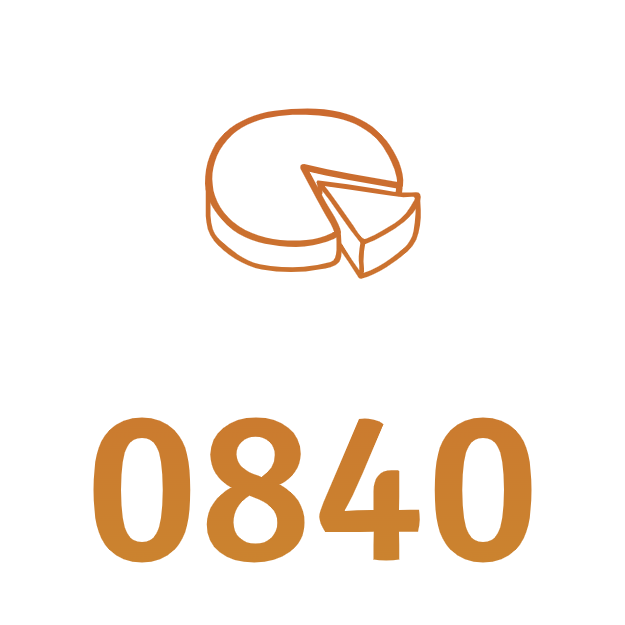
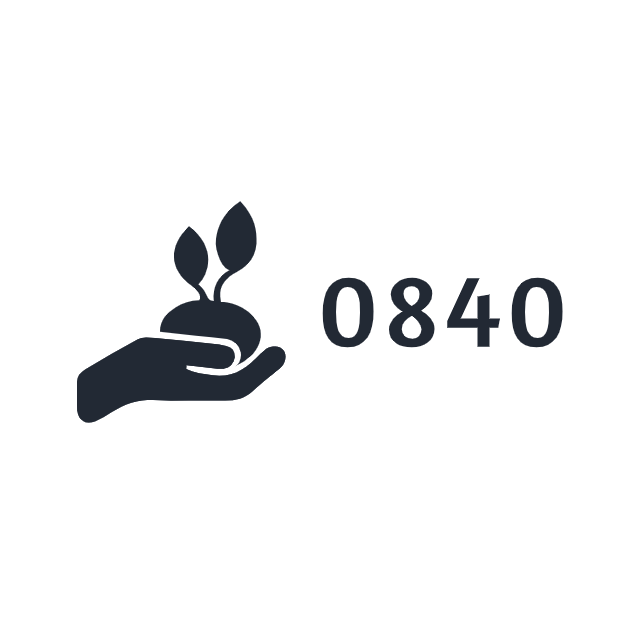
41th commit: 메인페이지 급여정책 내용 추가

Changed region(s): [[0.1216, 0.152, 0.912, 0.912]]

diff --git a/WebApp0840/src/main/resources/templates/home/main.html b/WebApp0840/src/main/resources/templates/home/main.html
@@ -39,7 +39,7 @@
 
     #profile-section {
         position: fixed;
-        top: 90px;
+        top: 140px;
         right: 50px;
         z-index: 2;
         width: 300px;
@@ -184,7 +184,7 @@
     </style>
 </head>
 <th:block layout:fragment="content">
-    <body class="wrapper" style="height: 3000px; position: relative">
+    <body class="wrapper" style="position: relative">
     <div class="popup hidden bg-[#000000AA] w-full h-full z-10 flex justify-center">
         <div class="popup__content bg-white rounded mt-[100px] w-[450px] h-[500px]">
             <div class="popup__head flex justify-end">
@@ -392,39 +392,43 @@
     <div class="w-full h-[12px] text-2xl">
         <div class="bg-concrete h-full shadow-inner"></div>
     </div>
-    <section class="sub-section-3 flex flex-col justify-center pl-40 pt-4">
+    <section class="sub-section-3 flex flex-col justify-center pl-40 pt-4 pb-5">
         <div class="py-3 font-bold text-2xl">자주 물어보는 근로 정책</div>
         <div class="flex gap-3">
             <div class="card w-[300px]">
                 <img src="/images/unemployment.png" class="card-img-top" alt="card-img-top">
                 <div class="card-body">
-                    <h5 class="card-title">실업급여란?</h5>
-                    <p class="card-text">직장을 잃게된 경우, 피보험자의 구직활동 및 재교육을 지원하는 사회보험을 말한다</p>
-                    <p class="card-text"><small class="text-muted">Last updated 3 mins ago</small></p>
+                    <a href="/megazine/unemployment" class="no-underline text-black hover:text-black">
+                        <h5 class="card-title">실업급여란?</h5>
+                        <p class="card-text">직장을 잃게된 경우, 피보험자의 구직활동 및 재교육을 지원하는 사회보험을 말한다</p>
+                    </a>
                 </div>
             </div>
             <div class="card w-[300px]">
                 <img src="/images/annual-holiday.png" class="card-img-top" alt="card-img-top">
                 <div class="card-body">
-                    <h5 class="card-title">연차란?</h5>
-                    <p class="card-text">직장을 잃게된 경우, 피보험자의 구직활동 및 재교육을 지원하는 사회보험을 말한다</p>
-                    <p class="card-text"><small class="text-muted">Last updated 3 mins ago</small></p>
+                    <a href="/megazine/annual" class="no-underline text-black hover:text-black">
+                        <h5 class="card-title">연차란?</h5>
+                        <p class="card-text">1년동안 80% 이상 출근한 근로자에게 15일의 유급휴가를 주는 것을 말한다</p>
+                    </a>
                 </div>
             </div>
             <div class="card w-[300px]">
-                <img src="/images/annual-holiday.png" class="card-img-top" alt="card-img-top">
+                <img src="/images/year-end-tax.jpg" class="card-img-top" alt="card-img-top">
                 <div class="card-body">
-                    <h5 class="card-title">연차란?</h5>
-                    <p class="card-text">직장을 잃게된 경우, 피보험자의 구직활동 및 재교육을 지원하는 사회보험을 말한다</p>
-                    <p class="card-text"><small class="text-muted">Last updated 3 mins ago</small></p>
+                    <a href="/megazine/year-end-tax" class="no-underline text-black hover:text-black">
+                        <h5 class="card-title">연말정산이란?</h5>
+                        <p class="card-text">직장인이 매달 월급에서 떼인(원천징수) 세금을 정산하는 일이다. </p>
+                    </a>
                 </div>
             </div>
             <div class="card w-[300px]">
-                <img src="/images/annual-holiday.png" class="card-img-top" alt="card-img-top">
+                <img src="/images/weekly-allowance.jpg" class="card-img-top" alt="card-img-top">
                 <div class="card-body">
-                    <h5 class="card-title">연차란?</h5>
-                    <p class="card-text">직장을 잃게된 경우, 피보험자의 구직활동 및 재교육을 지원하는 사회보험을 말한다</p>
-                    <p class="card-text"><small class="text-muted">Last updated 3 mins ago</small></p>
+                    <a href="/megazine/weekly-allowance" class="no-underline text-black hover:text-black">
+                        <h5 class="card-title">주휴수당이란?</h5>
+                        <p class="card-text">사업장 규모에 관계없이, 주 15시간 이상으로 근무하는 근로자에게 제공하는 임금이다.</p>
+                    </a>
                 </div>
             </div>
         </div>

diff --git a/WebApp0840/src/main/resources/templates/home/annual.html b/WebApp0840/src/main/resources/templates/home/annual.html
@@ -1,0 +1,44 @@
+<html
+        xmlns:th="http://thymeleaf.org"
+        xmlns:layout="http://www.ultraq.net.nz/thymeleaf/layout"
+        layout:decorate="~{layout}"
+>
+<th:block layout:fragment="content">
+    <div class="container p-5 mt-3">
+        <div>
+            <div class="text-base text-gray-500">근로기준법 제 60조</div>
+            <div class="text-xl">연차란?</div>
+            <div class="flex gap-2 mt-3">
+                <div class="border border-gray-50 rounded-full"><img src="/images/0840-svg.svg" class="w-[90px]"></div>
+                <div class="flex items-start text-sm text-gray-500 pt-3"><0840> 알기쉬운 근로매거진 <i class="fa-solid fa-head-side-cough" style="margin-left: 5px;"></i></div>
+            </div>
+        </div>
+        <img src="/images/annual-holiday.png" class="w-[550px] h-[280px] object-fit contrast-70 mt-3">
+        <div class="mt-3">
+            <div>1년동안 80% 이상 출근한 근로자에게 15일의 유급휴가를 주는 것을 말한다</div>
+            <div class="bg-concrete rounded p-3 mt-3">
+                <div class="border-b-2 border-gray-500">[근로기준법 제 60조]에 따르면,</div>
+                <div>
+                    5명 이상의 사업장에서는 1년간 80% 이상 출근한 근로자에 한해서 15일의 유급휴가를 주어야함<br>
+                    1년 미만의 근로자의 경우 1개월 개근시 1일의 유급휴가를 지급받음
+                </div>
+            </div>
+        </div>
+        <div class="mt-5">
+            <div class="w-full bg-gray-50 rounded p-1"><i class="fa-solid fa-triangle-exclamation"></i> 유의사항</div>
+            <div class="mt-2">1년동안 사용하지 않으면 자동소멸<br>사용하지 못한 연차(유급휴가)를 연차 수당으로 대신 보상받을 수 있다</div>
+        </div>
+        <div class="mt-5">
+            <div class="w-full bg-gray-50 rounded p-1"><i class="fa-solid fa-sack-dollar"></i> 연차수당</div>
+            <div class="mt-2">
+                연차 휴가 수당: 연차 휴가 사용일에 유급으로 지급해야하는 임금<br>
+                연차 휴가 미사용 수당: 연차 휴가를 사용하지 않고 연차 사용기간이 만료되었을 때, 미사용 연차에 대해 보상하는 임금<br>
+                ('휴가 청구권이 있는 마지막 달의 임금 지급일 임금을 기준으로 산정한다')<br><br>
+                <span class="ml-5 text-red-500">1일 통상임금 = 1시간 통상시급 x 1일 근로시간</span><br>
+                <span class="ml-5">만약, 미사용연차일 수가 10일이라면 1일 통상임금 x 10일</span>
+            </div>
+        </div>
+    </div>
+</th:block>
+
+</html>

diff --git a/WebApp0840/src/main/resources/templates/home/year_end.html b/WebApp0840/src/main/resources/templates/home/year_end.html
@@ -1,0 +1,46 @@
+<html
+        xmlns:th="http://thymeleaf.org"
+        xmlns:layout="http://www.ultraq.net.nz/thymeleaf/layout"
+        layout:decorate="~{layout}"
+>
+<th:block layout:fragment="content">
+    <div class="container p-5 mt-3">
+        <div>
+            <div class="text-base text-gray-500">근로기준법 제 60조</div>
+            <div class="text-xl">연말정산이란?</div>
+            <div class="flex gap-2 mt-3">
+                <div class="border border-gray-50 rounded-full"><img src="/images/0840-svg.svg" class="w-[90px]"></div>
+                <div class="flex items-start text-sm text-gray-500 pt-3"><0840> 알기쉬운 근로매거진 <i class="fa-solid fa-head-side-cough" style="margin-left: 5px;"></i></div>
+            </div>
+        </div>
+        <img src="/images/year-end-tax.jpg" class="w-[550px] h-[280px] object-fit contrast-70 mt-3">
+        <div class="mt-3">
+            <div>
+                직장인이 매달 월급에서 떼인 세금을 정산하는 일이다<br>
+                1년간 벌어들인 소득에서 소득세를 계산한 뒤, 그동안 떼인 세금과 비교해 더 떼였으면 환급받고,<br>
+                덜 떼였으면 더 내는 절차이다.
+            </div>
+            <div class="bg-concrete rounded p-3 mt-3">
+                <div class="border-b-2 border-gray-500">[근로기준법 제 60조]에 따르면,</div>
+                <div>
+                    5명 이상의 사업장에서는 1년간 80% 이상 출근한 근로자에 한해서 15일의 유급휴가를 주어야함<br>
+                    1년 미만의 근로자의 경우 1개월 개근시 1일의 유급휴가를 지급받음
+                </div>
+            </div>
+        </div>
+        <div class="mt-5">
+            <div class="w-full bg-gray-50 rounded p-1"><i class="fa-solid fa-triangle-exclamation"></i> 총급여란?</div>
+            <div class="mt-2">1년치 세금을 계산하는 기준인 연간소득을 '총급여'라고 한다 (연봉과는 다르다)</div>
+            <div><i class="fa-solid fa-arrow-right"></i> 연봉 - 비과세소득 = 총급여</div>
+        </div>
+        <div class="mt-5">
+            <div class="w-full bg-gray-50 rounded p-1"><i class="fa-solid fa-sack-dollar"></i> 비과세소득이란?</div>
+            <div class="mt-2">
+                근로소득 중에서 세금을 내지 않아도 되는 소득을 말한다.<br>
+                즉, '총급여'란 세금을 부과한 소득을 말한다.<br>
+            </div>
+        </div>
+    </div>
+</th:block>
+
+</html>

diff --git a/WebApp0840/src/main/resources/templates/home/unemployment.html b/WebApp0840/src/main/resources/templates/home/unemployment.html
@@ -1,0 +1,35 @@
+<html
+        xmlns:th="http://thymeleaf.org"
+        xmlns:layout="http://www.ultraq.net.nz/thymeleaf/layout"
+        layout:decorate="~{layout}"
+>
+<th:block layout:fragment="content">
+    <div class="container p-5 mt-3">
+        <div>
+            <div class="text-base text-gray-500">대한민국 4대 보험 中 1</div>
+            <div class="text-xl">고용보험 / 실업급여란 ?</div>
+            <div class="flex gap-2 mt-3">
+                <div class="border border-gray-50 rounded-full"><img src="/images/0840-svg.svg" class="w-[90px]"></div>
+                <div class="flex items-start text-sm text-gray-500 pt-3"><0840> 알기쉬운 근로매거진 <i class="fa-solid fa-head-side-cough" style="margin-left: 5px;"></i></div>
+            </div>
+        </div>
+        <img src="/images/unemployment.png" class="w-[650px] h-[280px] object-fit contrast-70 mt-3">
+        <div class="mt-3">
+             <div>직장을 잃게된 경우, 피보험자의 구직활동 및 재교육을 지원하는 보험을 말한다<br>
+             (<span class="font-bold">'비자발적인'**</span> 퇴사사유가 중요하다)<br>
+                 (재취업을 위한 노력을 하는 조건으로, 최소 120일(<span class="text-red-500">4개월</span>), 최장 270일(<span class="text-red-500">9개월</span>) 동안 지원)</div>
+        </div>
+        <div class="mt-5">
+            <div class="w-full bg-gray-50 rounded p-1"><i class="fa-solid fa-file-invoice"></i> 필요서류</div>
+            <div class="mt-2">(사측에서 제공하는) 이직확인서 필요<br><i class="fa-solid fa-arrow-right"></i> 근로자가 사업주에게 '이직확인서' 발급요청 시, 요청받은 날로부터 10일 이내에 사업주는 이직확인서 발급해야한다.</div>
+        </div>
+        <div class="mt-5">
+            <div class="w-full bg-gray-50 rounded p-1"><i class="fa-solid fa-question"></i> 신청방법</div>
+            <div class="mt-2">(1) 사측에서 상실신고와 이직확인서가 신고되어 있는지 확인<br>(2) 수급자격 인터넷교육을 받으면 시간절약<br>(3) 관할 고용복지센터를 가서 실업급여 신청<br>(4) 2주 뒤 교육출석
+                요구를 받고, 교육에 출석하면 수급자격증을 받게 된다.
+            </div>
+        </div>
+    </div>
+</th:block>
+
+</html>

diff --git a/WebApp0840/src/main/resources/templates/home/weekly_allowance.html b/WebApp0840/src/main/resources/templates/home/weekly_allowance.html
@@ -1,0 +1,33 @@
+<html
+        xmlns:th="http://thymeleaf.org"
+        xmlns:layout="http://www.ultraq.net.nz/thymeleaf/layout"
+        layout:decorate="~{layout}"
+>
+<th:block layout:fragment="content">
+    <div class="container p-5 mt-3">
+        <div>
+            <div class="text-base text-gray-500">근로기준법 제 60조</div>
+            <div class="text-xl">주휴수당이란?</div>
+            <div class="flex gap-2 mt-3">
+                <div class="border border-gray-50 rounded-full"><img src="/images/0840-svg.svg" class="w-[90px]"></div>
+                <div class="flex items-start text-sm text-gray-500 pt-3"><0840> 알기쉬운 근로매거진 <i class="fa-solid fa-head-side-cough" style="margin-left: 5px;"></i></div>
+            </div>
+        </div>
+        <img src="/images/weekly-allowance.jpg" class="w-[550px] h-[280px] object-fit contrast-70 mt-3">
+        <div class="mt-3">
+            <div>
+                사업장 규모에 관계없이, 주 15시간 이상으로 근무하는 근로자에게 제공하는 임금이다.<br>
+                주휴일에는 근로를 제공하지 않지만, 1일분의 임금을 지급받을 수 있다.<br>
+                주 15시간 미만 근로자는 주휴수당을 지급받을 수 없다.<br>
+            </div>
+            <div class="bg-concrete rounded p-3 mt-3">
+                <div class="border-b-2 border-gray-500">주휴수당 계산방법</div>
+                <div>
+                    '<span class="font-bold text-red-500">1시간 통상임금 x 1일 근무시간</span>' 에 해당하는 금액을 주 15시간이 넘을 때마다 기본급에 포함하여 지급해야한다.
+                </div>
+            </div>
+        </div>
+    </div>
+</th:block>
+
+</html>

diff --git a/WebApp0840/src/main/resources/templates/navbar.html b/WebApp0840/src/main/resources/templates/navbar.html
@@ -18,7 +18,7 @@
         </div>
         <nav class="navbar navbar-expand-xl navbar-fixed-top bg-white navbar-light p-0 flex-grow pt-2 object-fit shadow-md">
             <div class="container-fluid pl-8 h-[100%]">
-                <a class="navbar-brand" th:href="@{/}">Navbar</a>
+                <a class="navbar-brand py-0" th:href="@{/}"><img src="/images/0840-svg.svg" class="w-[100px] h-[80px]"></a>
                 <button class="navbar-toggler" type="button" data-bs-toggle="collapse"
                         data-bs-target="#navbarWithDropdown"
                         aria-controls="navbarWithDropdown" aria-expanded="false" aria-label="Toggle navigation">
@@ -32,9 +32,6 @@
                             </li>
                             <li class="nav-item">
                                 <a class="nav-link text-[14px]" href="/account/base/fixed-spending">가계부</a>
-                            </li>
-                            <li class="nav-item">
-                                <a class="nav-link text-[14px]" href="/account/base/fixed-spending">게시판</a>
                             </li>
                         </div>
                         <div class="w-[150px]">

diff --git a/WebApp0840/src/main/resources/templates/wage/working_time_form.html b/WebApp0840/src/main/resources/templates/wage/working_time_form.html
@@ -51,10 +51,10 @@
 </head>
 <th:block layout:fragment="content">
     <div class="h-full flex">
-        <div class="w-[20%] flex default-bgcolor-base">
+        <div class="w-[20%] flex default-bgcolor-base pt-12">
             <th:block th:replace="/user/userInfo :: userInfoFragment"></th:block>
         </div>
-        <div class="flex-grow flex flex-col content-wrapper">
+        <div class="flex-grow flex flex-col content-wrapper pt-9">
             <nav class="w-full h-[2%] default-bgcolor-base pt-2 text-white">
                 <ul class="flex gap-20">
                     <li><a href="/wage/base" class="no-underline text-white text-[13px] hover:text-white hover:cursor-pointer">기본급여정보</a></li>

diff --git a/WebApp0840/src/main/resources/templates/wage/wage_base_form.html b/WebApp0840/src/main/resources/templates/wage/wage_base_form.html
@@ -36,10 +36,10 @@
 </head>
 <th:block layout:fragment="content">
     <div class="h-full flex">
-        <div class="w-[20%] flex default-bgcolor-base">
+        <div class="w-[20%] pt-12 flex default-bgcolor-base">
             <th:block th:replace="/user/userInfo :: userInfoFragment"></th:block>
         </div>
-        <div class="flex-grow flex flex-col">
+        <div class="flex-grow flex flex-col pt-9">
             <nav class="w-full h-[2%] default-bgcolor-base pt-2 text-white">
                 <ul class="flex gap-20">
                     <li><a href="/wage/base" class="no-underline text-white text-[13px] hover:text-white hover:cursor-pointer">기본급여정보</a></li>

diff --git a/WebApp0840/src/main/resources/templates/wage/wage_result.html b/WebApp0840/src/main/resources/templates/wage/wage_result.html
@@ -22,10 +22,10 @@
 </head>
 <th:block layout:fragment="content">
     <div class="h-full flex">
-        <div class="w-[20%] flex default-bgcolor-base">
+        <div class="w-[20%] flex default-bgcolor-base pt-12">
             <th:block th:replace="/user/userInfo :: userInfoFragment"></th:block>
         </div>
-        <div class="flex-grow flex flex-col">
+        <div class="flex-grow flex flex-col pt-9">
             <nav class="w-full h-[2%] default-bgcolor-base pt-2 text-white">
                 <ul class="flex gap-20">
                     <li><a href="/wage/base" class="no-underline text-white text-[13px] hover:text-white hover:cursor-pointer">기본급여정보</a>

diff --git a/WebApp0840/src/main/resources/templates/accountBook/baseForm/account_fixed_income_form.html b/WebApp0840/src/main/resources/templates/accountBook/baseForm/account_fixed_income_form.html
@@ -30,10 +30,10 @@
 </head>
 <th:block layout:fragment="content">
     <div class="h-full flex">
-        <div class="w-[20%] flex default-bgcolor-base">
+        <div class="w-[20%] flex default-bgcolor-base pt-12">
             <th:block th:replace="/accountBook/fixedInfo :: fixedInfoFragment"></th:block>
         </div>
-        <div class="flex-grow flex flex-col">
+        <div class="flex-grow flex flex-col pt-9">
             <nav class="w-full h-[2%] default-bgcolor-base pt-2 text-white">
                 <ul class="flex gap-20">
                     <li><a href="/account/base/fixed-spending"

diff --git a/WebApp0840/src/main/resources/templates/accountBook/baseForm/account_fixed_spending_form.html b/WebApp0840/src/main/resources/templates/accountBook/baseForm/account_fixed_spending_form.html
@@ -30,10 +30,10 @@
 </head>
 <th:block layout:fragment="content">
     <div class="h-full flex">
-        <div class="w-[20%] flex default-bgcolor-base">
+        <div class="w-[20%] flex default-bgcolor-base pt-12">
             <th:block th:replace="/accountBook/fixedInfo :: fixedInfoFragment"></th:block>
         </div>
-        <div class="flex-grow flex flex-col">
+        <div class="flex-grow flex flex-col pt-9">
             <nav class="w-full h-[2%] default-bgcolor-base pt-2 text-white">
                 <ul class="flex gap-20">
                     <li><a href="/account/base/fixed-spending"

diff --git a/WebApp0840/src/main/resources/templates/accountBook/baseForm/daily_consumption_pattern_form.html b/WebApp0840/src/main/resources/templates/accountBook/baseForm/daily_consumption_pattern_form.html
@@ -40,10 +40,10 @@
 </head>
 <th:block layout:fragment="content">
     <div class="h-full flex">
-        <div class="w-[20%] flex default-bgcolor-base">
+        <div class="w-[20%] flex default-bgcolor-base pt-12">
             <th:block th:replace="/accountBook/fixedInfo :: fixedInfoFragment"></th:block>
         </div>
-        <div class="flex-grow flex flex-col">
+        <div class="flex-grow flex flex-col pt-9">
             <nav class="w-full h-[2%] default-bgcolor-base pt-2 text-white">
                 <ul class="flex gap-20">
                     <li><a href="/account/base/fixed-spending"
